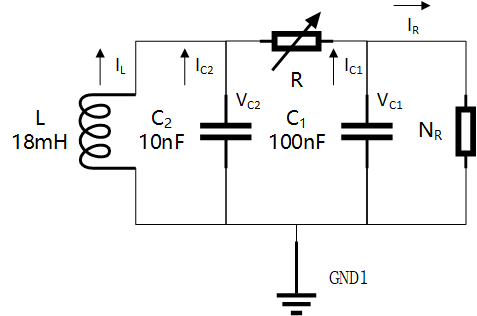
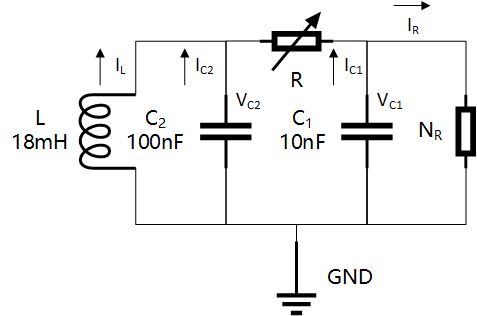
Lab-2-Note-1 minor correction.

diff --git a/Lab-2-Note-1-蔡氏电路简析/ChuasCircuitSimFunc.m b/Lab-2-Note-1-蔡氏电路简析/ChuasCircuitSimFunc.m
@@ -1,0 +1,26 @@
+function dy = ChuasCircuitSimFunc(t, y)
+    R1 = 220;
+    R2 = 220;
+    R3 = 2200;
+    R4 = 22000;
+    R5 = 22000;
+    R6 = 3300;
+    V1 = 9;
+    V2 = -9;
+    L = 18e-3;
+    C1 = 10e-9;
+    C2 = 100e-9;
+    global R;
+    Vmax1 = R3 / (R2 + R3) * V1;
+    Vmin1 = R3 / (R2 + R3) * V2;
+    Vmax2 = R6 / (R5 + R6) * V1;
+    Vmin2 = R6 / (R5 + R6) * V2;
+    I_R = @(V) (V <= Vmax1) .* (V >= Vmin1) .* (- R2 / (R3 * R1) * V)...
+    + (V > Vmax1) .* (V - V1) / R1...
+    + (V < Vmin1) .* (V - V2) / R1...
+    + (V <= Vmax2) .* (V >= Vmin2) .* (- R5 / (R6 * R4) * V)...
+    + (V > Vmax2) .* (V - V1) / R4...
+    + (V < Vmin2) .* (V - V2) / R4;
+    dy(1,1) = - (I_R(y(1, 1)) - (y(2, 1) - y(1, 1)) / R) / C1;
+    dy(2,1) = - ((y(2, 1) - y(1, 1)) / R - y(3, 1)) / C2;
+    dy(3,1) = - y(2, 1) / L;
